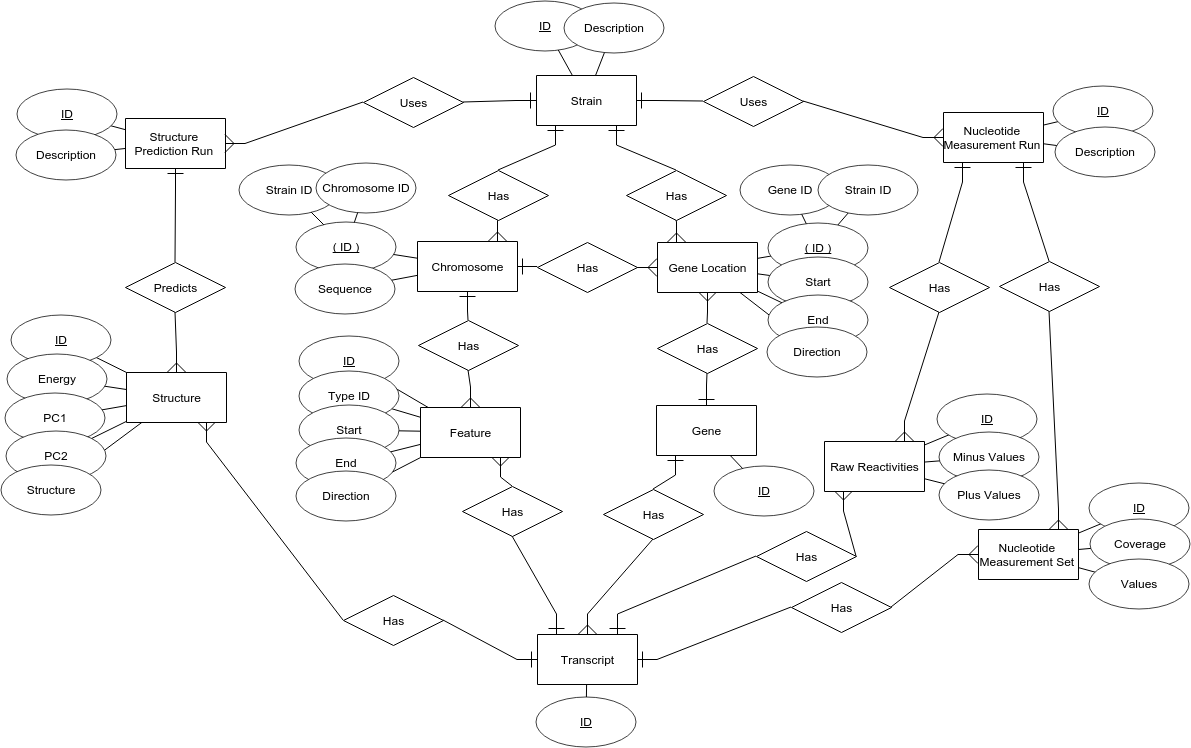
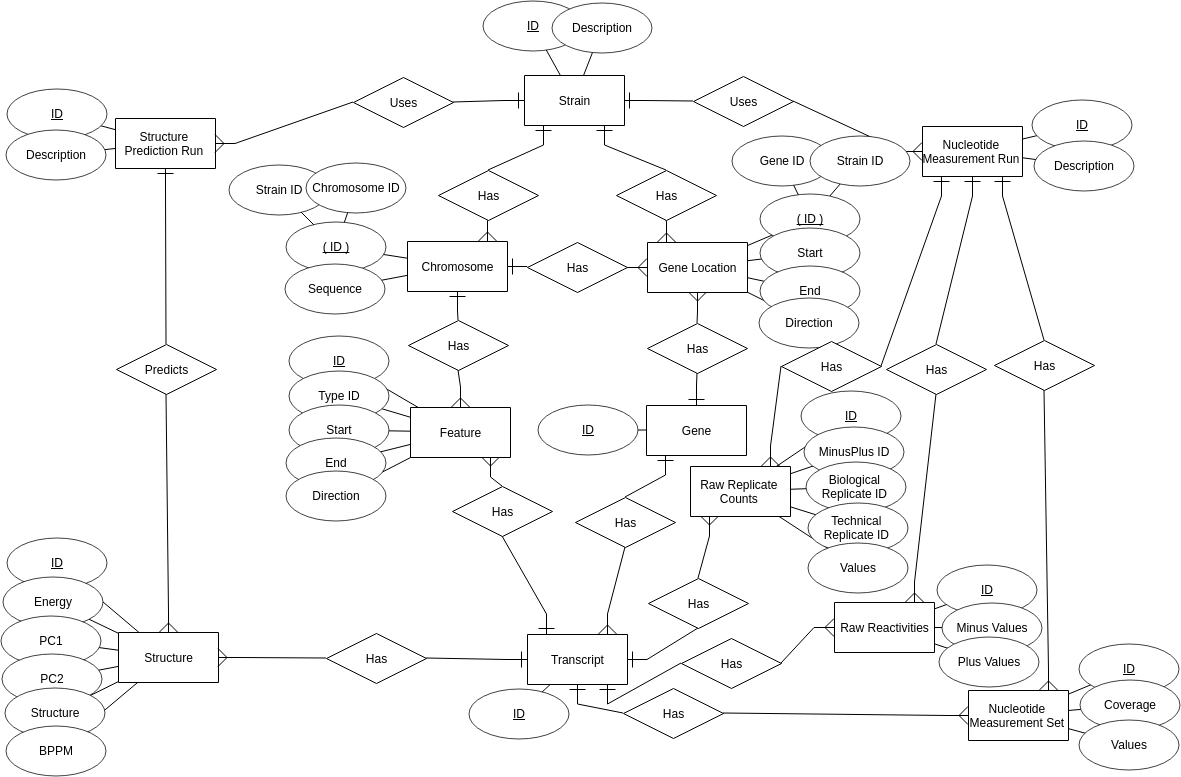
Updated help with new ER diagram and DB documentation

diff --git a/foldatlas/templates/help-view.html b/foldatlas/templates/help-view.html
@@ -135,7 +135,7 @@
 <h3 id="contents_structure-circle">Circle plots for base pairing visualisation</h3>
 <img class="help-example-image-small" src="{{ settings.static_base_url }}/assets/help/circle.png" />
 <p>
-    The circle plot can be used to intuitively visualise base pairing in a predicted RNA structure. Bases are arranged in a circle according to their sequence position, and lines drawn between bases indicate pairing. The colour of each line indicates the log10 base pair probability (BPP), calculated using the <i>RNAstructure</i> package. The free energy estimate is also shown. Use the <i class="fa fa-file-image-o"></i> button to download the image as an SVG file.
+    The circle plot can be used to intuitively visualise base pairing in a predicted RNA structure. Bases are arranged in a circle according to their sequence position, and lines drawn between bases indicate pairing. The colour of each line indicates the log10 base pair probability (BPP), calculated using the <i>RNAstructure</i> package. The free energy estimate is also shown. The <i class="fa fa-file-image-o"></i> button can be used to download the image as an SVG file.
 </p>
 
 <h3 id="contents_structure-diagrams">Structure diagrams for fold visualisation</h3>
@@ -261,27 +261,34 @@ GAAAAUUCAUAAUUUUUAUAAAAUCAGGUAUUCUC
 </p>
 
 <pre class="help-pre">
-<u>1   2   3     4     5     6     7     8     9     10</u>
-1   A   3525  3179  1227  1288  1010  1192  906   1081
-2   C   4894  2620  2258  1419  1217  875   901   844
-3   C   2673  1664  1117  561   995   673   504   487
-4   C   7644  3555  2609  2570  2465  1343  1425  787
-5   A   508   402   207   181   120   124   156   122
-6   U   1981  1046  673   769   539   291   357   398
-7   U   1740  965   565   838   337   331   394   240
-8   U   1045  203   307   559   179   102   68    33
-9   C   1177  438   387   526   264   161   105   172
-10  U   288   211   84    177   27    85    82    44
+<u>
+position  sequence  sum_minus  sum_plus  minus_B1  minus_B2  minus_B3  plus_B1  plus_B2  plus_B3</u>
+1         A         3525       3179      1227      1288      1010      1192     906      1081
+2         C         4894       2620      2258      1419      1217      875      901      844
+3         C         2673       1664      1117      561       995       673      504      487
+4         C         7644       3555      2609      2570      2465      1343     1425     787
+5         A         508        402       207       181       120       124      156      122
+6         U         1981       1046      673       769       539       291      357      398
+7         U         1740       965       565       838       337       331      394      240
+8         U         1045       203       307       559       179       102      68       33
+9         C         1177       438       387       526       264       161      105      172
+10        U         288        211       84        177       27        85       82       44
 </pre>
 
 <p>
     The columns include, from left to right:
     <ol>
-        <li>The nucleotide position. Numbers start from 1.</li>
-        <li>The base type letter.</li>
-        <li>Total count from the control lane.</li>
-        <li>Total count from the DMS lane</li>
-        <li>Remaining rows are biological replicate lanes. The column titles describe whether the lane is control (minus) or DMS (plus), and also which biological replicate it is (e.g. B2 for biological replicate 2).</li>
+        <li><b>position</b> - the nucleotide position. Numbers start from 1.</li>
+        <li><b>sequence</b> - the base type letter.</li>
+        <li><b>sum_minus</b> - total count from the (-)DMS control lanes.</li>
+        <li><b>sum_plus</b> - total count from the (+)DMS lanes</li>
+
+        <li><b>minus_B1</b> - (-)DMS lane, biological replicate 1</li>
+        <li><b>minus_B2</b> - (-)DMS lane, biological replicate 2</li>
+        <li><b>minus_B3</b> - (-)DMS lane, biological replicate 3</li>
+        <li><b>plus_B1</b> - (+)DMS lane, biological replicate 1</li>
+        <li><b>plus_B2</b> - (+)DMS lane, biological replicate 2</li>
+        <li><b>plus_B3</b> - (+)DMS lane, biological replicate 3</li>
     </ol>
 </p>
 
@@ -309,16 +316,20 @@ The following Entity-Relationship (ER) diagram describes the FoldAtlas database:
             method.
         </li><li>
             <b>Structure:</b>
-            Represents a single structure that has been predicted as part of a structure prediction run. This is generated from a single transcript sequence. Includes a free energy estimate, data for PCA plots, and a string containing tab delimited pairing data.
+            Represents a single structure that has been predicted as part of a structure prediction run. This is generated from a single transcript sequence. Includes a free energy estimate, data for PCA plots, and a strings containing tab delimited pairing data. Another string stores base pair probabilities that correspond to the structure.
         </li><li>
             <b>Nucleotide Measurement Run:</b>
             Represents a genome-scale experiment that involves taking measurements at specific nucleotide positions. At present this is used to represent DMS reactivity data. In the future, data from SHAPE and ribosome profiling experiments will also be represented by this entity.
+        </li>
+        <li>
+            <b>Raw Replicate Counts:</b>
+            This represents raw adduct counts for a single (-)DMS or (+)DMS lane, generated from mapping reads in an RNA structure-seq experiment. A text field contains the tab delimited adduct counts.
         </li><li>
             <b>Raw Reactivities:</b>
-            This represents raw adduct counts, generated from mapping reads in an RNA structure-seq experiment. Includes a text field containing the tab delimited adduct counts.
+            This contains the summed adduct counts across all replicates for (-)DMS and (+)DMS lanes.
         </li><li>
             <b>Nucleotide Measurement Set:</b>
-            Represents normalised reactivities, generated from raw reactivities. Includes a property to store a per-nucleotide coverage value for the entire transcript, and a string containing the individual measurements.
+            Represents normalised reactivities, generated from summed adduct counts. Includes a property to store a per-nucleotide coverage value for the entire transcript, and a string containing the individual measurements.
         </li>
     </ul>
 </p>
